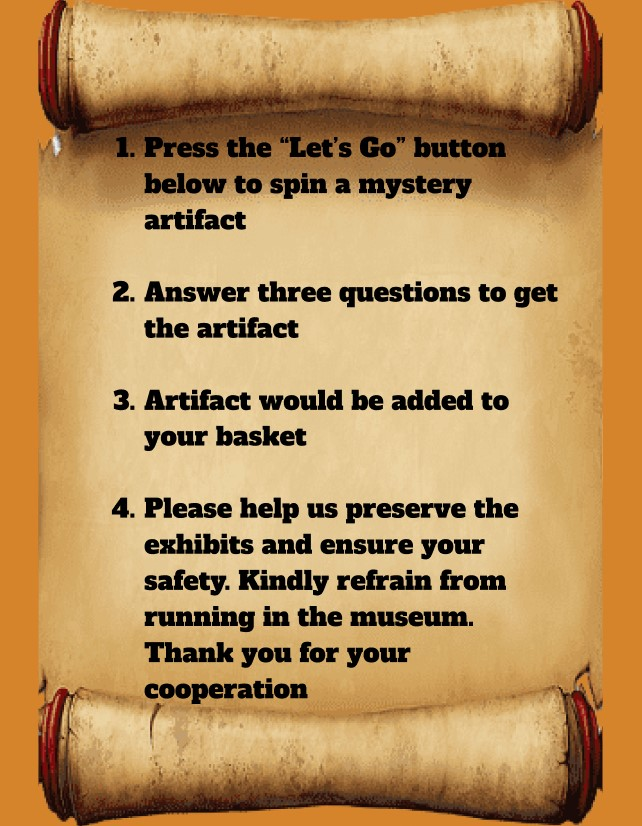
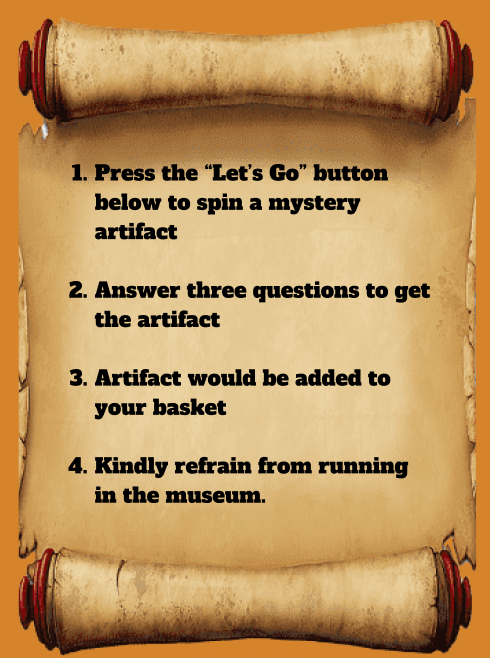
changed the buttons to look nicer, updated instructions, updated the register and login to fit full screen

diff --git a/static/style.css b/static/style.css
@@ -76,14 +76,14 @@ button {
     font-size: 40px;
     cursor: pointer;
     position: absolute; /* Add positioning to the button */
-    bottom: -450px; /* Adjust this value to move the button lower down */
+    bottom: -850px; /* Adjust this value to move the button lower down */
     left: 50%; /* Center the button horizontally */
     transform: translateX(-50%);
 }
 
 .image-container {
     position: fixed;
-    bottom: 400px;
+    bottom: 00px;
     right: -100px;
 }
 
@@ -97,7 +97,7 @@ button {
     font-size: 30px;
     margin-top: 10px;
     position: absolute;
-    bottom: -490px; /* Adjust this value to move the text below the button */
+    bottom: -890px; /* Adjust this value to move the text below the button */
     left: 50%;
     transform: translateX(-50%);
 }
@@ -122,7 +122,7 @@ button {
     font-size: 40px;
     cursor: pointer;
     position: absolute; /* Add positioning to the button */
-    bottom: -250px; /* Adjust this value to move the button lower down */
+    bottom: -690px; /* Adjust this value to move the button lower down */
     left: 50%; /* Center the button horizontally */
     transform: translateX(-50%);
 }
@@ -143,7 +143,7 @@ button {
     font-size: 30px;
     margin-top: 10px;
     position: absolute;
-    bottom: -290px; /* Adjust this value to move the text below the button */
+    bottom: -740px; /* Adjust this value to move the text below the button */
     left: 50%;
     transform: translateX(-50%);
 }

diff --git a/static/question.css b/static/question.css
@@ -32,7 +32,9 @@ div {
 
 
 button {
-    margin: 50px;
+    width: 800px; /* Set the width you want */
+    height: 120px; /* Set the height you want */
+    margin: 40px;
     padding: 10px 20px;
     font-size: 50px;
     font-family: 'Alfa Slab One', cursive;
@@ -40,10 +42,10 @@ button {
     background-color: #fff;
     color: #757575;
     border: none;
-    border-radius: 0;
+    border-radius: 40px;
     outline: none;
     transition: background-color 0.3s ease;
-    border-radius: 20px;
+    box-shadow: 0px 20px 6px rgba(0, 0, 0, 0.1);
 }
 .button-container{
     display: flex;

diff --git a/templates/loading.html b/templates/loading.html
@@ -38,9 +38,9 @@
       }
       .bottom-right-image {
          position: fixed;
-         bottom: 400px;
-         right: -100px;
-         width: 700px; /* Set the width you want */
+         bottom: 0px;
+         right: -300px;
+         width: 1000px; /* Set the width you want */
          height: auto; /* Maintain the aspect ratio of the image */
       }
    </style>

diff --git a/templates/start.html b/templates/start.html
@@ -17,6 +17,7 @@
                 cursor: pointer;
                 display: block;
                 margin: auto;
+                box-shadow: 0px 10px 6px rgba(0, 0, 0, 0.1);
             }
             .floating-btn {
                 position: fixed;
